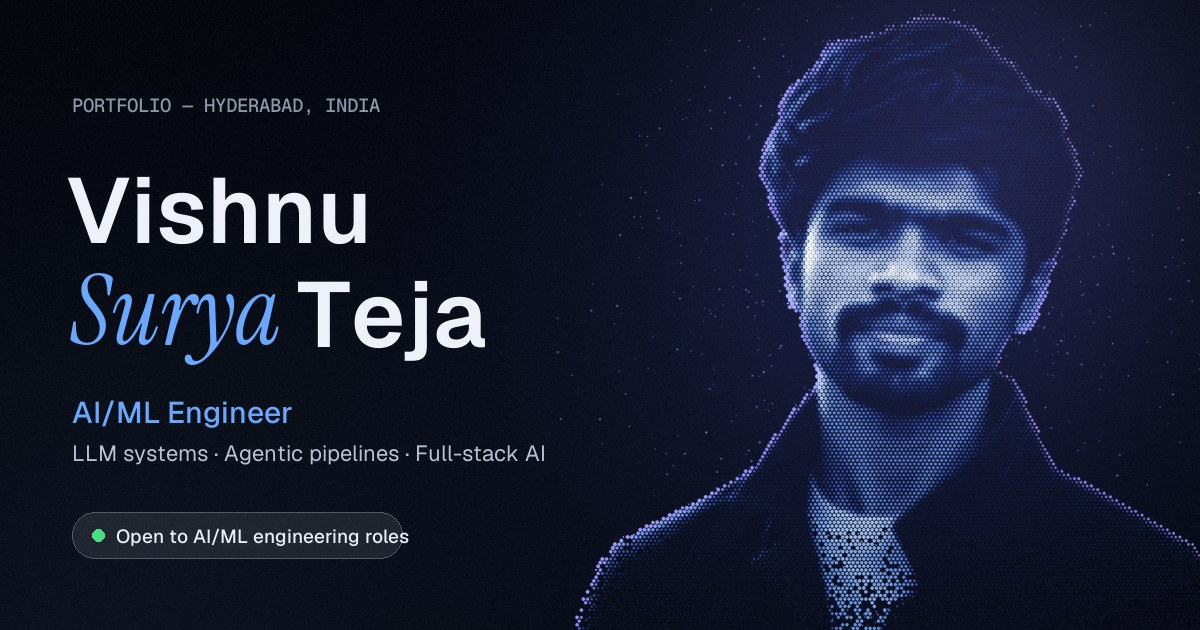
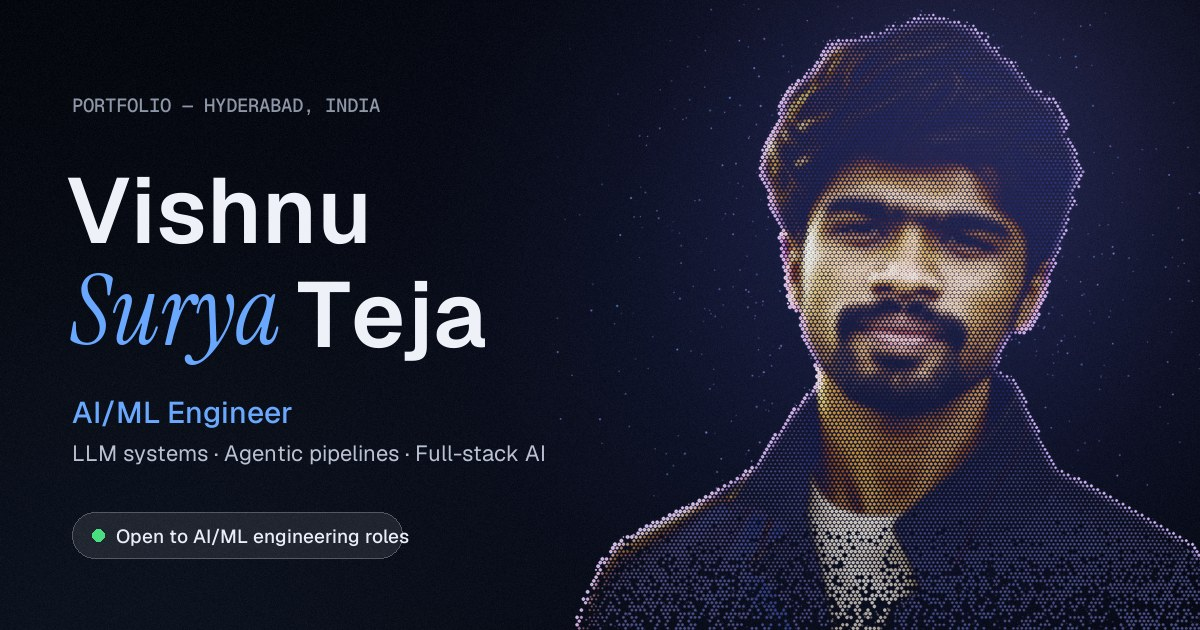
feat(portfolio): true-colour particle portrait
- Particles carry the photo's own colours: a slightly cooler white balance
  and a touch of saturation keep the skin natural rather than orange, and
  highlights roll off towards white
- Shadows take a moonlit blue-violet fill; hair and jacket are lifted away
  from the face so their texture reads on the night page, while the beard
  keeps its contrast
- The tuned tone curve, violet rim light and particle budgets are unchanged
- No-WebGL halftone, contact avatar and social card regenerated with the
  same grade

Changed region(s): [[0.4625, 0.0302, 1.0, 1.0]]

diff --git a/portfolio/src/gl/formations.js b/portfolio/src/gl/formations.js
@@ -46,8 +46,9 @@ const smoothstep = (e0, e1, x) => {
 
 const toLinear = (c) => (c <= 0.04045 ? c / 12.92 : Math.pow((c + 0.055) / 1.055, 2.4));
 
-// Moonlight gradient map (sRGB 0–255): navy shadows → electric blue → frost
-// highlights, identical to the offline halftone; violet rim light
+// Tone ramp (sRGB 0–255): navy shadows → electric blue → frost highlights.
+// The portrait keeps the *luminance* of this ramp — the tuned exposure and
+// facial detail — while hue and saturation come from the photo itself
 const STOPS = [
   [0.0, [6, 10, 24]],
   [0.18, [14, 28, 72]],
@@ -57,6 +58,16 @@ const STOPS = [
   [1.0, [246, 250, 255]],
 ];
 const RIM = [176, 150, 255];
+
+const luminance = (r, g, b) => 0.2126 * r + 0.7152 * g + 0.0722 * b;
+const VIBRANCE = 1.16; // a touch of saturation around each colour's own luminance
+// The photo was shot at golden hour: a cooler white balance (linear-light
+// channel gains) keeps the skin natural instead of orange on the night page
+const WB = [0.9, 1.0, 1.12];
+// Cool moonlight fill for the shadows (hair, jacket), as unit-luminance chroma
+const COOL = [0.42, 0.5, 1.0].map(toLinear);
+const COOL_L = luminance(...COOL);
+const RIM_LIN = RIM.map((c) => toLinear(c / 255));
 
 function gradientMap(l) {
   l = Math.min(1, Math.max(0, l));
@@ -70,6 +81,13 @@ function gradientMap(l) {
     }
   }
   return STOPS[STOPS.length - 1][1].slice();
+}
+
+// Linear luminance of the tone ramp, as a 256-entry lookup
+const TONE = new Float32Array(256);
+for (let i = 0; i < 256; i++) {
+  const [r, g, b] = gradientMap(i / 255);
+  TONE[i] = luminance(toLinear(r / 255), toLinear(g / 255), toLinear(b / 255));
 }
 
 function boxBlur(src, w, h, r) {
@@ -154,17 +172,37 @@ export function samplePortrait(px, grid, rand) {
 
       const u = (x + 0.5 + (rand() - 0.5) * 0.85) / grid;
       const v = (y + 0.5 + (rand() - 0.5) * 0.85) / grid;
-      const focus = 0.58 + 0.42 * Math.exp(-((u - 0.52) ** 2 / 0.07 + (v - 0.4) ** 2 / 0.11));
+      const face = Math.exp(-((u - 0.52) ** 2 / 0.07 + (v - 0.4) ** 2 / 0.11));
+      const focus = 0.58 + 0.42 * face;
       const l2 = Math.min(1, Math.pow(lum, 0.85) * focus * 1.18);
       const rim = Math.max(0, 1 - Math.abs(alphaWide[i] - 0.5) * 2.4);
 
-      const gm = gradientMap(l2);
-      let cr = gm[0] * 0.9 + r * 255 * 0.1;
-      let cg = gm[1] * 0.9 + g * 255 * 0.1;
-      let cb = gm[2] * 0.9 + b * 255 * 0.1;
-      cr = cr * (1 - rim * 0.75) + RIM[0] * rim * 0.75;
-      cg = cg * (1 - rim * 0.75) + RIM[1] * rim * 0.75;
-      cb = cb * (1 - rim * 0.75) + RIM[2] * rim * 0.75;
+      // True colour: the photo's own hue as unit-luminance chroma (the floor
+      // keeps near-black pixels from blowing up); highlights roll off towards
+      // white the way film does
+      let pr = toLinear(r) * WB[0];
+      let pg = toLinear(g) * WB[1];
+      let pb = toLinear(b) * WB[2];
+      const pl = luminance(pr, pg, pb);
+      const sat = VIBRANCE * (1 - 0.4 * smoothstep(0.72, 1, l2));
+      pr = Math.max(0, pl + (pr - pl) * sat);
+      pg = Math.max(0, pl + (pg - pl) * sat);
+      pb = Math.max(0, pl + (pb - pl) * sat);
+      const norm = 1 / Math.max(luminance(pr, pg, pb), 0.02);
+      // Shadows take a cool moonlight fill; away from the face (hair, jacket)
+      // they are also lifted, so their texture reads on the night page instead
+      // of sinking into the tone curve's toe — the beard keeps its contrast
+      const shade = 1 - smoothstep(0.05, 0.45, l2);
+      const lift = shade * (1 - face);
+      const cool = shade * 0.66;
+      const T = TONE[Math.round(l2 * 255)] + 0.14 * lift;
+      let cr = (pr * norm * (1 - cool) + (COOL[0] / COOL_L) * cool) * T;
+      let cg = (pg * norm * (1 - cool) + (COOL[1] / COOL_L) * cool) * T;
+      let cb = (pb * norm * (1 - cool) + (COOL[2] / COOL_L) * cool) * T;
+      // violet rim light around the silhouette
+      cr = cr * (1 - rim * 0.75) + RIM_LIN[0] * rim * 0.75;
+      cg = cg * (1 - rim * 0.75) + RIM_LIN[1] * rim * 0.75;
+      cb = cb * (1 - rim * 0.75) + RIM_LIN[2] * rim * 0.75;
 
       // 2.5D relief: head ellipsoid + shoulders + a touch of luminance
       const hx = (u - 0.52) / 0.3;
@@ -177,10 +215,10 @@ export function samplePortrait(px, grid, rand) {
 
       // Contrast curve keeps facial detail; the tee/jacket below the face recedes
       const lower = 1 - 0.42 * smoothstep(0.66, 1.0, v);
-      const bright = Math.min(1, 0.08 + 0.98 * Math.pow(l2, 1.22) * lower + rim * 0.62) * smoothstep(0.3, 0.7, a);
+      const bright = Math.min(1, Math.max(0.08 + 0.98 * Math.pow(l2, 1.22) * lower, 0.34 * lift) + rim * 0.62) * smoothstep(0.3, 0.7, a);
 
       pos.push((u - 0.5) * 2, (0.5 - v) * 2, z);
-      col.push(toLinear(cr / 255), toLinear(cg / 255), toLinear(cb / 255), bright);
+      col.push(cr, cg, cb, bright);
     }
   }
 

diff --git a/portfolio/DESIGN_PLAN.md b/portfolio/DESIGN_PLAN.md
@@ -57,7 +57,7 @@ The phone number is deliberately left off the page; the résumé PDF stays avail
 
 ## 4. Visual system
 
-**Palette: moonlight.** Navy shadows rise through electric blue to frost highlights, with a violet rim light: cool and precise, so the portrait reads like a photograph lit by a screen at night.
+**Palette: moonlight.** The interface runs from navy through electric blue to frost, with a violet accent: cool and precise. The portrait is the one warm, full-colour element on the page, so it is the first thing the eye lands on.
 
 | Token | Hex | Use |
 |---|---|---|
@@ -123,13 +123,14 @@ Maps are generated in a Web Worker from ResizeObserver measurements (only for gl
 
 ## 7. Creative portrait treatment
 
-1. **Live particle portrait.** The transparent cutout is resampled into a jittered grid of particles, one per cell:
-   - Size and brightness follow light.
-   - A moonlight gradient map runs navy → electric blue → frost.
+1. **Live particle portrait, in true colour.** The transparent cutout is resampled into a jittered grid of particles, one per cell:
+   - Size and brightness follow light, along a tuned tone curve that keeps facial detail.
+   - Each particle carries the photo's own colour. The golden-hour cast is cooled slightly and the saturation lifted a touch, so skin stays natural rather than orange; highlights roll off towards white, as film does.
+   - A cinematic split: the warm face and cream tee against cool, moonlit shadows. Hair and jacket take a blue-violet fill, lifted away from the face so their texture reads on the night page.
    - A violet rim light is detected from the alpha edge.
    - A focus falloff keeps the face as the hero.
    - The portrait breathes and twinkles at under a third of the abstract formations' rate, so it holds still enough to read like a photograph.
-2. **Static "nano-halftone" portrait.** It's generated offline with the same palette, plus a dissolving lower edge, as if the particles are drifting off. It serves as the no-WebGL fallback and the social / Open Graph card.
+2. **Static "nano-halftone" portrait.** It's generated offline with the same colour grade, plus a dissolving lower edge, as if the particles are drifting off. It serves as the no-WebGL fallback, the contact avatar and the social / Open Graph card.
 
 ## 8. Motion spec
 
